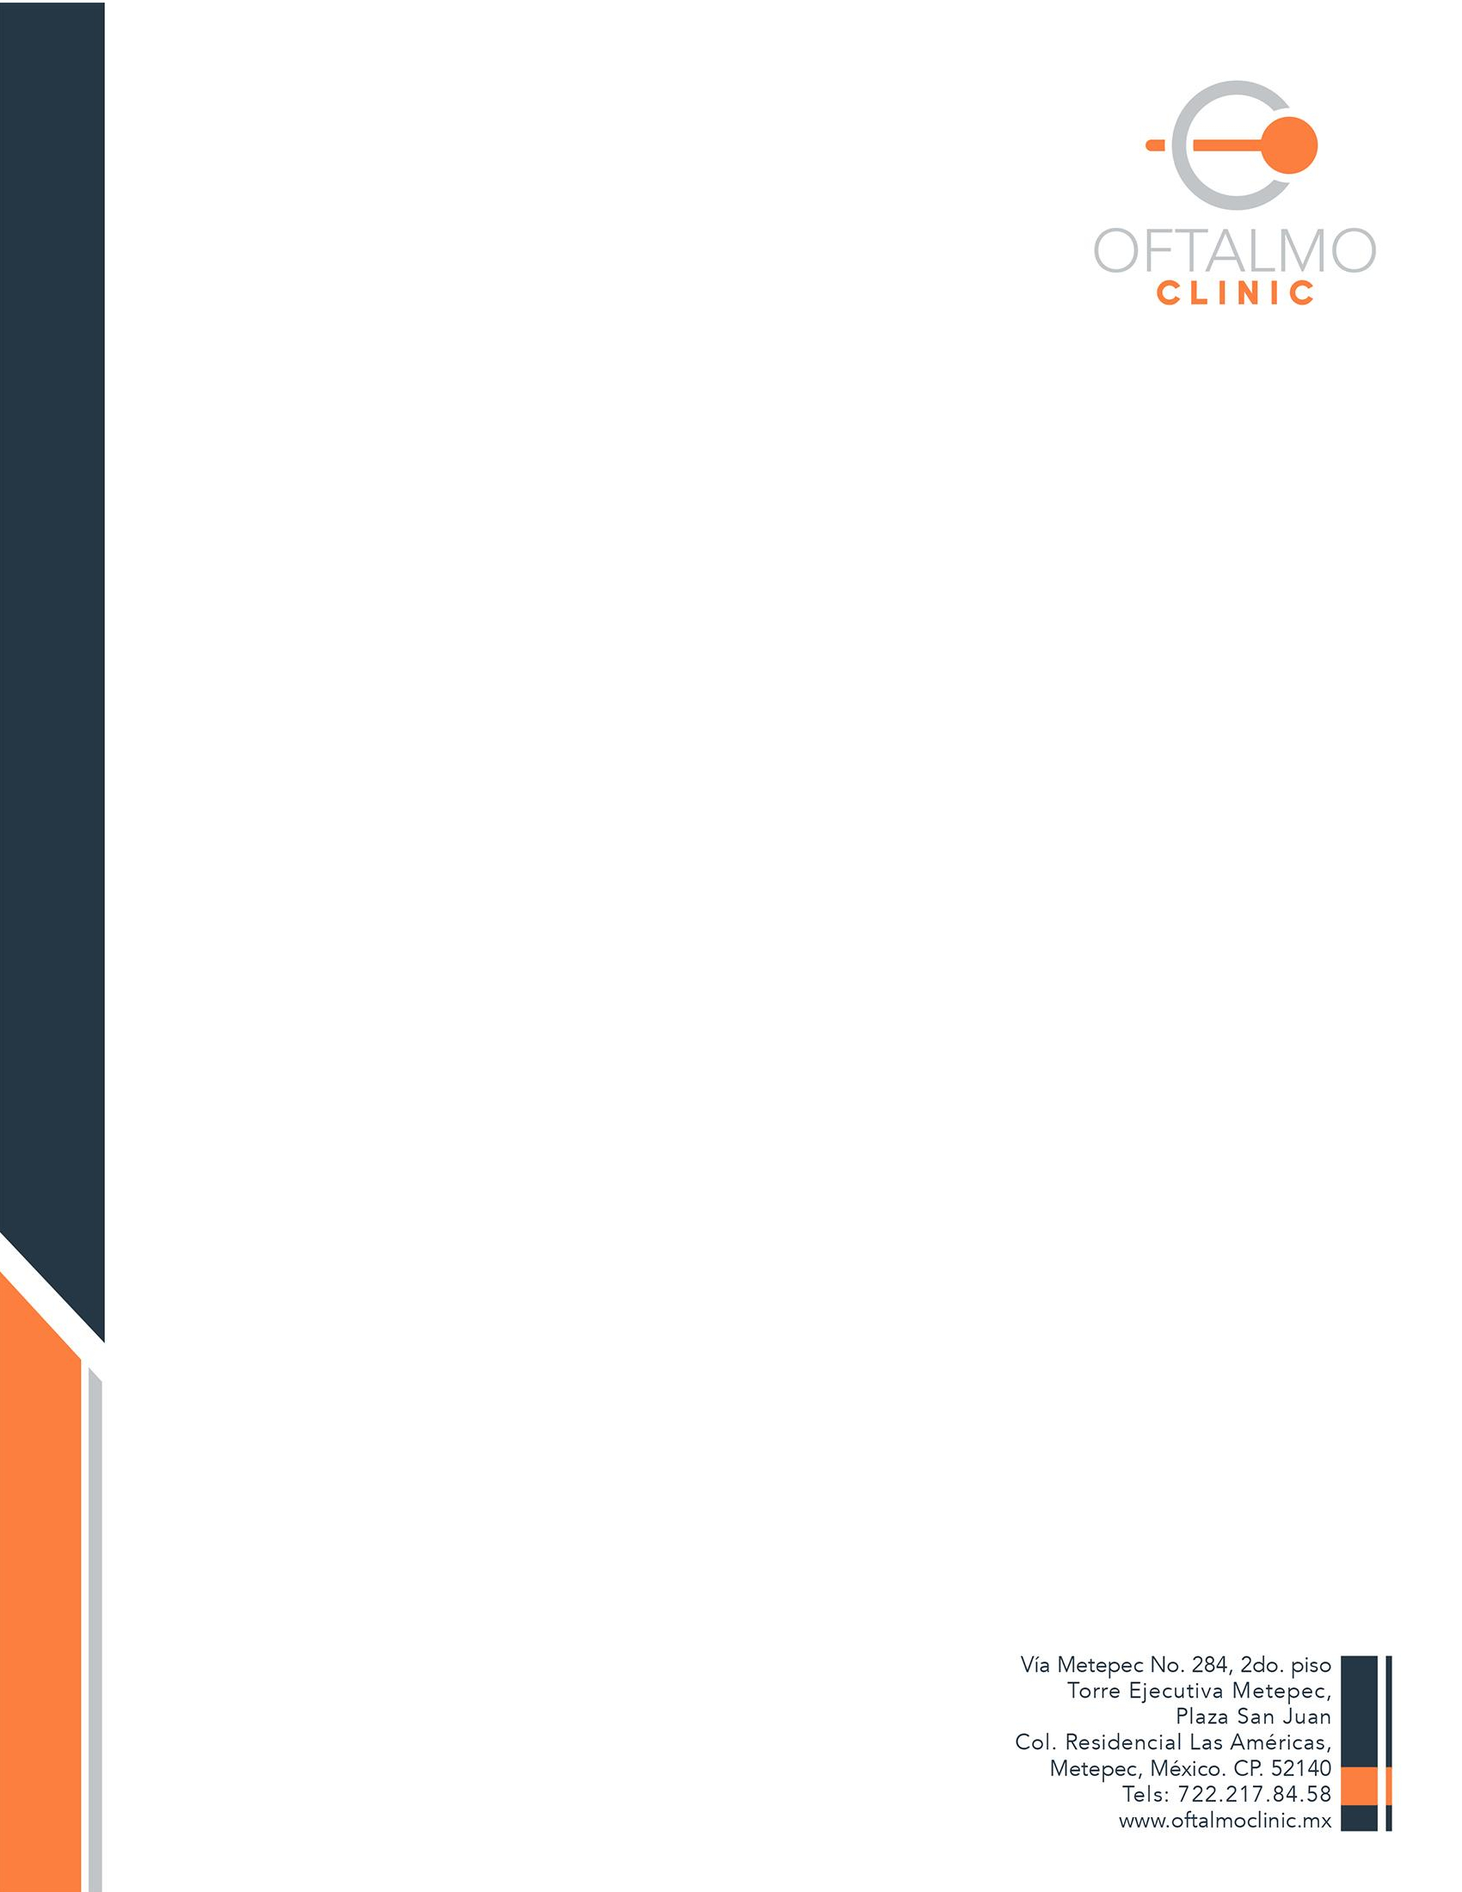
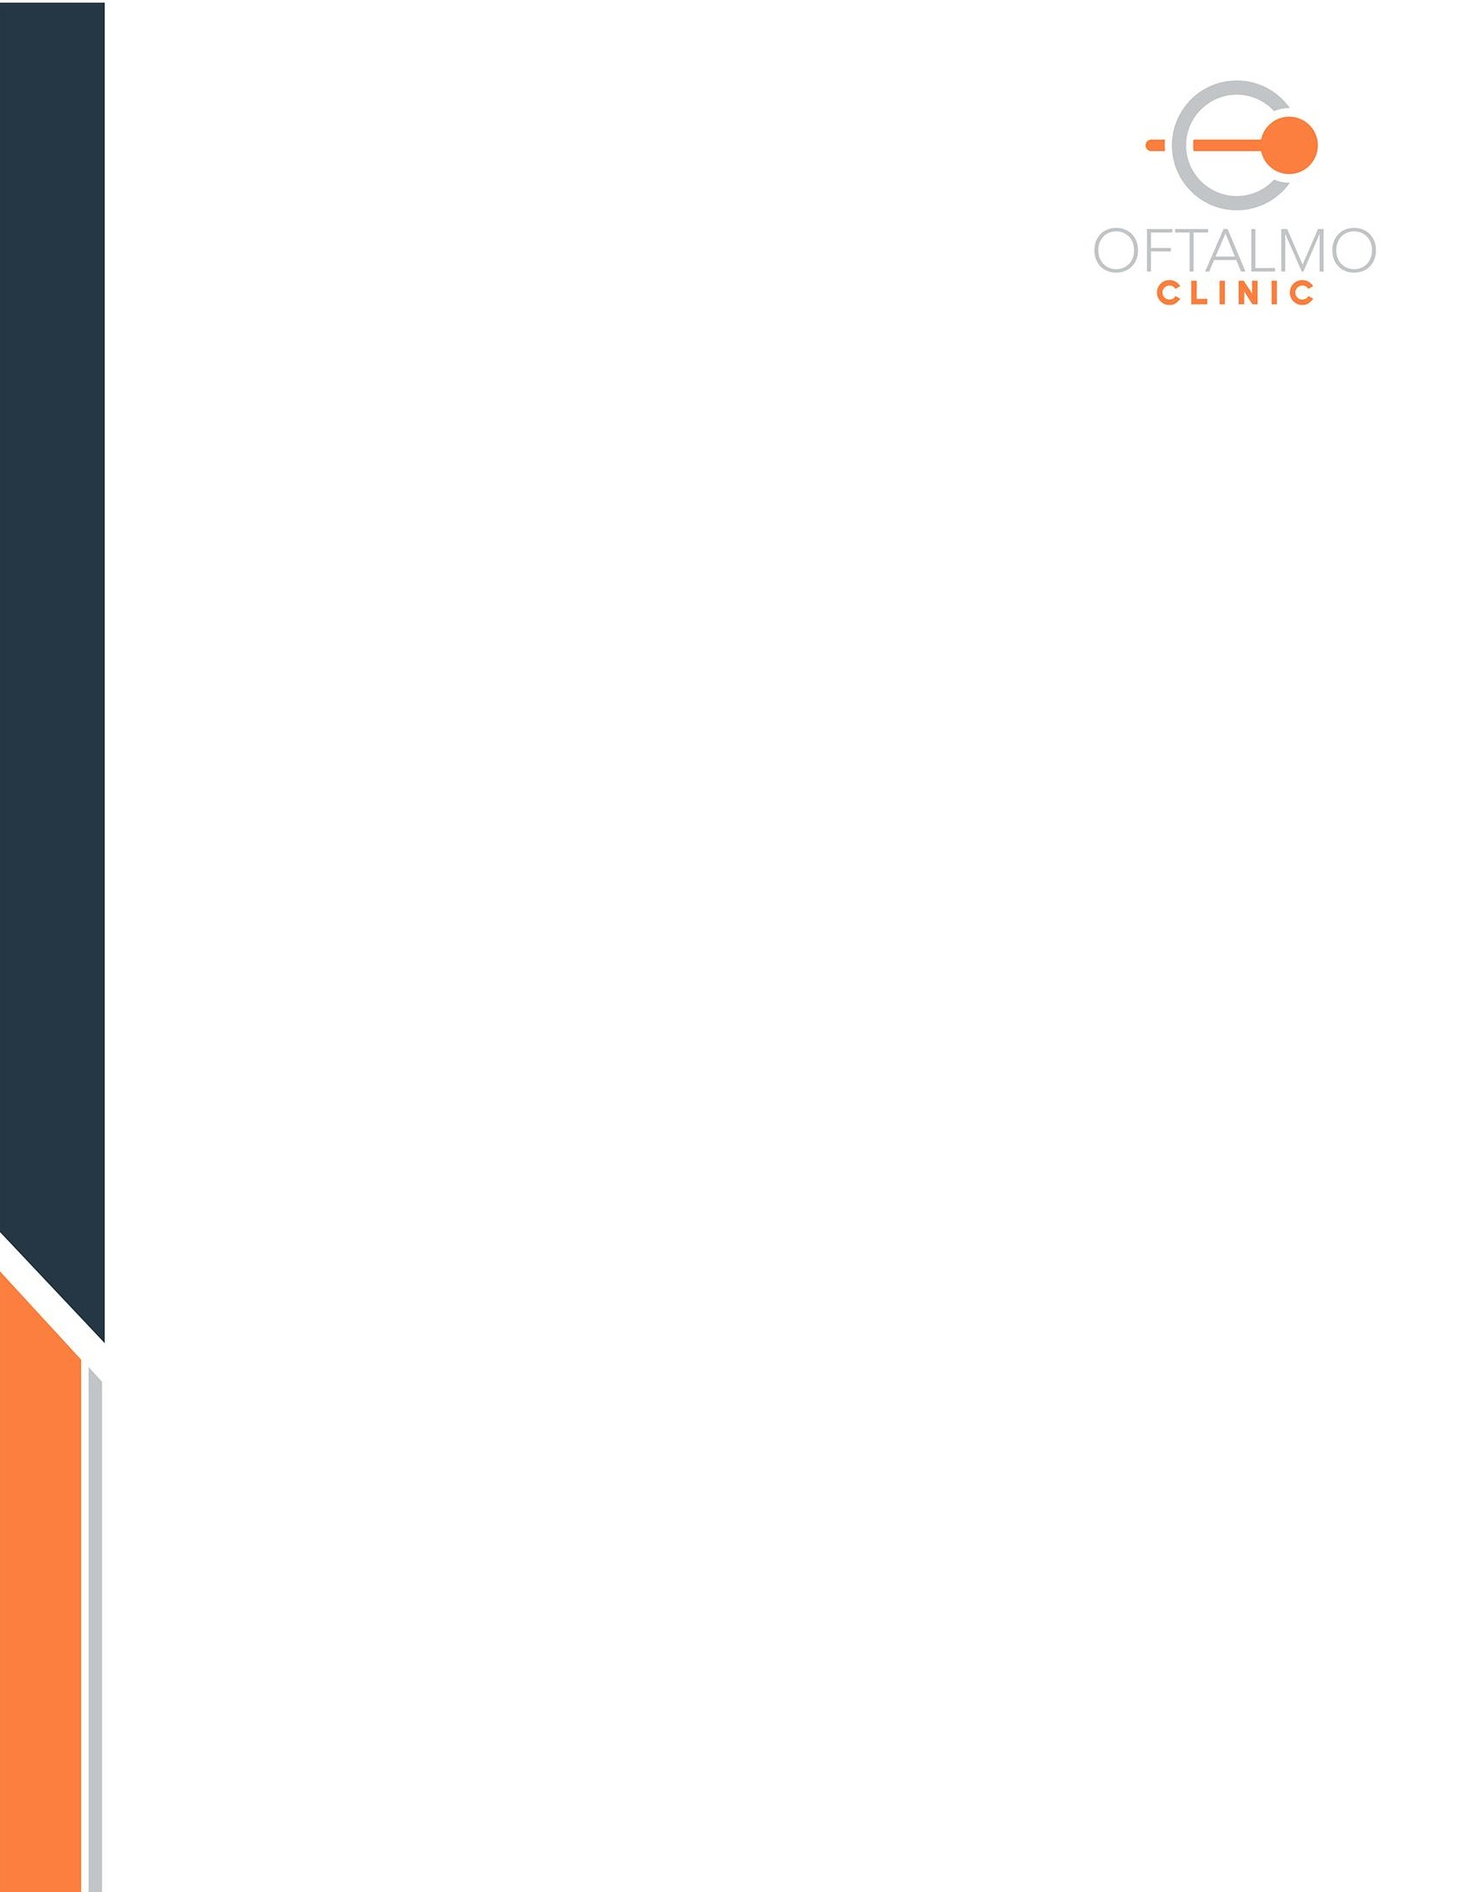
Cambios Detalle de Consumo (Generar Historico)í

Changed region(s): [[0.7171, 0.8655, 0.9665, 0.9891]]

diff --git a/app/Http/Controllers/DetalleCController.php b/app/Http/Controllers/DetalleCController.php
@@ -218,40 +218,86 @@ class DetalleCController extends Controller{
     }
 
     public function viewHojas(Request $request){
+        DB::table('historico_detalle_consumo')->truncate();
         $doctores = Doctor::where('id','!=',1)->get();
         $tipoPaciente = TipoPaciente::all();
         $hojasConsumo = DB::table('detalle_consumos')
                         ->join('doctors','doctors.id','=','id_doctor_fk')
                         ->join('tipo_pacientes','tipo_pacientes.id','=','tipoPaciente')
                         ->select(DB::raw("CONCAT(doctors.doctor_titulo,' ',doctors.doctor_nombre,' ',doctors.doctor_apellidop) AS Doctor")
+                                    ,'detalle_consumos.id as id_detalle'
+                                    ,'detalle_consumos.id_doctor_fk'
                                     ,'detalle_consumos.folio'
                                     ,'detalle_consumos.fechaElaboracion'
                                     ,'detalle_consumos.paciente'
-                                    ,'tipo_pacientes.nombretipo_paciente'
+                                    ,'detalle_consumos.cirugia'
+                                    ,'detalle_consumos.tipoCirugia'
+                                    ,'detalle_consumos.tipoPaciente'
                                     ,'detalle_consumos.cantidadEfe'
-                                    ,'detalle_consumos.id as id_detalle'
-                                    ,'detalle_consumos.cirugia')->get();
+                                    ,'detalle_consumos.cantidadTrans'
+                                    ,'detalle_consumos.TPV'
+                                    ,'detalle_consumos.statusHoja'
+                                    ,'tipo_pacientes.nombretipo_paciente')->get();
+
+        foreach($hojasConsumo as $hojas){
+            DB::table('historico_detalle_consumo')->insert([
+                'id_doctor_fk' => $hojas->id_doctor_fk,
+                'folio' => $hojas->folio,
+                'fechaElaboracion' => $hojas->fechaElaboracion,
+                'paciente' => $hojas->paciente,
+                'cirugia' => $hojas->cirugia,
+                'tipoCirugia' => $hojas->tipoCirugia,
+                'tipoPaciente' => $hojas->tipoPaciente,
+                'cantidadEfe' => $hojas->cantidadEfe,
+                'cantidadTrans' => $hojas->cantidadTrans,
+                'TPV' => $hojas->TPV,
+                'statusHoja' => $hojas->statusHoja
+            ]);
+        }
                         
         return view('detalleC.mostrarHojasConsumo', compact('doctores','tipoPaciente','hojasConsumo'));
     }
 
     public function mostrarHojas(Request $request){
+        DB::table('historico_detalle_consumo')->truncate();
         $doctores = Doctor::where('id','!=',1)->get();
         $tipoPaciente = TipoPaciente::all();
         $hojasConsumo = DB::table('detalle_consumos')
                         ->join('doctors','doctors.id','=','id_doctor_fk')
                         ->join('tipo_pacientes','tipo_pacientes.id','=','tipoPaciente')
                         ->select(DB::raw("CONCAT(doctors.doctor_titulo,' ',doctors.doctor_nombre,' ',doctors.doctor_apellidop) AS Doctor")
+                                    ,'detalle_consumos.id as id_detalle'
+                                    ,'detalle_consumos.id_doctor_fk'
                                     ,'detalle_consumos.folio'
                                     ,'detalle_consumos.fechaElaboracion'
                                     ,'detalle_consumos.paciente'
-                                    ,'tipo_pacientes.nombretipo_paciente'
+                                    ,'detalle_consumos.cirugia'
+                                    ,'detalle_consumos.tipoCirugia'
+                                    ,'detalle_consumos.tipoPaciente'
                                     ,'detalle_consumos.cantidadEfe'
-                                    ,'detalle_consumos.id as id_detalle'
-                                    ,'detalle_consumos.cirugia')
+                                    ,'detalle_consumos.cantidadTrans'
+                                    ,'detalle_consumos.TPV'
+                                    ,'detalle_consumos.statusHoja'
+                                    ,'tipo_pacientes.nombretipo_paciente')
                         ->where('doctors.id','=',$request->slctDoctor)
                         ->whereBetween('fechaElaboracion',[$request->fechaInicio,$request->fechaFin])
                         ->get();
+
+        foreach($hojasConsumo as $hojas){
+            DB::table('historico_detalle_consumo')->insert([
+                'id_doctor_fk' => $hojas->id_doctor_fk,
+                'folio' => $hojas->folio,
+                'fechaElaboracion' => $hojas->fechaElaboracion,
+                'paciente' => $hojas->paciente,
+                'cirugia' => $hojas->cirugia,
+                'tipoCirugia' => $hojas->tipoCirugia,
+                'tipoPaciente' => $hojas->tipoPaciente,
+                'cantidadEfe' => $hojas->cantidadEfe,
+                'cantidadTrans' => $hojas->cantidadTrans,
+                'TPV' => $hojas->TPV,
+                'statusHoja' => $hojas->statusHoja
+            ]);
+        }
         
         return view('detalleC.mostrarHojasConsumo', compact('doctores','hojasConsumo','tipoPaciente'));
     }
@@ -460,8 +506,21 @@ class DetalleCController extends Controller{
         return view('detalleC.mostrarHojasConsumo', compact('doctores','tipoPaciente'));
     }
 
-    /*public function exportPDFGral(Request $request){
-        dd($request);
-        //$pdf = \PDF::loadView('pdf.vista-gral-pdf', compact('data','data2'));
-    }*/
+    public function exportPDFGral(){
+        $hojasConsumo = DB::table('historico_detalle_consumo')
+                        ->join('doctors','doctors.id','=','id_doctor_fk')
+                        ->join('tipo_pacientes','tipo_pacientes.id','=','tipoPaciente')
+                        ->select(DB::raw("CONCAT(doctors.doctor_titulo,' ',doctors.doctor_nombre,' ',doctors.doctor_apellidop) AS Doctor")
+                                    ,'historico_detalle_consumo.folio'
+                                    ,'historico_detalle_consumo.fechaElaboracion'
+                                    ,'historico_detalle_consumo.paciente'
+                                    ,'historico_detalle_consumo.cirugia'
+                                    ,'historico_detalle_consumo.cantidadEfe'
+                                    ,'historico_detalle_consumo.cantidadTrans'
+                                    ,'historico_detalle_consumo.statusHoja'
+                                    ,'tipo_pacientes.nombretipo_paciente')->get();
+
+        $pdf = \PDF::loadView('pdf.vista-gral-pdf', compact('hojasConsumo'));
+        return $pdf->download('Historico Hoja de Consumo.pdf');
+    }
 }

diff --git a/resources/views/pdf/vista-gral-pdf.blade.php b/resources/views/pdf/vista-gral-pdf.blade.php
@@ -1,71 +1,63 @@
 <!DOCTYPE html>
-<html lang="en">
+<html lang="es">
 
 <head>
     <meta charset="UTF-8">
     <meta http-equiv="X-UA-Compatible" content="IE=edge">
     <meta name="viewport" content="width=device-width, initial-scale=1.0">
-    <title>Detalle de Consumo - {{ $data->folio }}</title>
+    <title>Histórico Detalle de Consumo</title>
+    
     <style>
-    body {
-        background-image: url("../resources/views/pdf/images/HOJA-OFTALMOCLINIC.jpg");
-        background-size: cover;
-        margin: 0px;
-        padding: 0px;
-        background-position: center center;
-    }
+        body {
+            background-image: url("../resources/views/pdf/images/HOJA-OFTALMOCLINIC.jpg");
+            background-size: cover;
+            font-family: Verdana, Arial, Helvetica, sans-serif;
+            margin: -15px;
+            padding: -15px;
+            background-position: center center;
+        }
+
+        table {
+            border-collapse: collapse;
+            border: #b2b2b2 1px solid;
+        }
+
+        td, th {
+            border: black 1px solid;
+        }
     </style>
 </head>
 <header>
-    <h1 style="text-align: center;">Detalle de Consumo - {{ $data->folio }}</h1>
+    <h1 style="text-align: center;">Histórico Detalle de Consumo</h1>
 </header>
 
 <body>
-    <dd>
-        <p>
-            <b>Fecha de Elaboración: </b>{{ $data->fechaElaboracion }}
-            <br><b>Doctor: </b>{{ $data->Doctor }}
-            <br><b>Paciente: </b>{{ $data->paciente }} ({{ $data->nombretipo_paciente }})
-            <br><b>Tipo de Cirugía: </b>{{ $data->cirugia }}
-        </p>
-    </dd>
-    <br>
-    <table>
+    <table width="100%">
         <thead>
             <tr>
-                <th style="text-align: center;">Código</th>
-                <th>Descripción</th>
-                <th>UM</th>
-                <th style="text-align: center;">Cantidad</th>
-                <th style="text-align: center;">Precio Unitario</th>
+                <th style="text-align: center;">Folio</th>
+                <th>Fecha Cirugía</th>
+                <th>Doctor</th>
+                <th style="text-align: center;">Paciente</th>
+                <th style="text-align: center;">Tipo Cirugía</th>
                 <th style="text-align: center;">Importe</th>
+                <th style="text-align: center;">Status</th>
             </tr>
         </thead>
         <tbody>
-            @if(!empty($data2))
-            @foreach($data2 as $productos)
+            @if(!empty($hojasConsumo))
+            @foreach($hojasConsumo as $hojas)
             <tr>
-                <td style="text-align: center;">{{ $productos->codigo }}</td>
-                <td>{{ $productos->descripcion }}</td>
-                <td style="text-align: center;">{{ $productos->um }}</td>
-                <td style="text-align: center;">{{ number_format($productos->cantidad,2) }}</td>
-                <td style="text-align: center;">$ {{ number_format($productos->precio_unitario,2) }}</td>
-                <td style="text-align: center;">$ {{ number_format($productos->importe,2) }}</td>
+                <td style="text-align: center;">{{ $hojas->folio }}</td>
+                <td style="text-align: center;">{{ date('d-M-Y',strtotime($hojas->fechaElaboracion)) }}</td>
+                <td style="text-align: center;">{{ $hojas->Doctor }}</td>
+                <td style="text-align: center;">{{ $hojas->paciente }} ({{ $hojas->nombretipo_paciente }}) </td>
+                <td style="text-align: center;">{{ $hojas->cirugia }}</td>
+                <td style="text-align: center;">$ {{ number_format($hojas->cantidadEfe,2) }}</td>
+                <td style="text-align: center;">{{ $hojas->statusHoja }}</td>
             </tr>
             @endforeach
             @endif
-            <tr>
-                <td style="text-align: right;" colspan="5"><b>Total (Efectivo): </b></td>
-                <td>$ {{ number_format($data->cantidadEfe,2) }}</td>
-            </tr>
-            <tr>
-                <td style="text-align: right;" colspan="5"><b>Total (Transferencia): </b></td>
-                <td>$ {{ number_format($data->cantidadTrans,2) }}</td>
-            </tr>
-            <tr>
-                <td style="text-align: right;" colspan="5"><b>Total (TPV): </b></td>
-                <td>$ {{ number_format($data->TPV,2) }}</td>
-            </tr>
         </tbody>
     </table>
 </body>

diff --git a/resources/views/detalleC/mostrarHojasConsumo.blade.php b/resources/views/detalleC/mostrarHojasConsumo.blade.php
@@ -3,7 +3,7 @@
 <div class="col">
     <div class="card">
         <div class="card-header modalPersonalizado">
-            <h4>Historial Hojas de Consumo</h4>
+            <h4>Histórico Hojas de Consumo</h4>
         </div>
         <div class="card-header col-12">
             <form action="{{ route('mostrarHojas.show') }}" method="GET">
@@ -49,7 +49,7 @@
                             </div>
                         </div>
                     </div>
-                    <!--<div class="col-md-2 col-sm-4 col-6">
+                    <div class="col-md-2 col-sm-4 col-6">
                         <div class="info-box shadow">
                             <div class="info-box-content">
                                 <a id="cargarCobranza" type="button" href="{{ route('exportPDFGral.create') }}"
@@ -58,7 +58,7 @@
                                 </a>
                             </div>
                         </div>
-                    </div>-->
+                    </div>
                 </div>
             </form>
         </div>
@@ -66,12 +66,12 @@
             <table id="catEstudios" name="catEstudios" class="table table-bordered table-hover">
                 <thead>
                     <tr>
-                        <th>Folio</th>
-                        <th>Fecha de Cirugía</th>
+                        <th style="text-align: center;">Folio</th>
+                        <th style="text-align: center;">Fecha de Cirugía</th>
                         <th>Doctor</th>
                         <th>Paciente</th>
                         <th>Tipo de Cirugía</th>
-                        <th>Importe</th>
+                        <th style="text-align: center;">Importe</th>
                         <th></th>
                     </tr>
                 </thead>
@@ -79,12 +79,12 @@
                     @if(!empty($hojasConsumo))
                     @foreach($hojasConsumo as $hojas)
                     <tr vertical-align="middle">
-                        <td>{{ $hojas->folio }}</td>
-                        <td>{{ date('d-M-Y',strtotime($hojas->fechaElaboracion)) }}</td>
+                        <td style="text-align: center;">{{ $hojas->folio }}</td>
+                        <td style="text-align: center;">{{ date('d-M-Y',strtotime($hojas->fechaElaboracion)) }}</td>
                         <td>{{ $hojas->Doctor }}</td>
                         <td>{{ $hojas->paciente }} ({{ $hojas->nombretipo_paciente }})</td>
                         <td>{{ $hojas->cirugia }}</td>
-                        <td>$ {{ number_format($hojas->cantidadEfe,2) }}</td>
+                        <td style="text-align: center;">$ {{ number_format($hojas->cantidadEfe,2) }}</td>
                         <td>
                             <center>
                                 <div class="btn-group">

diff --git a/resources/views/pdf/vista-pdf.blade.php b/resources/views/pdf/vista-pdf.blade.php
@@ -6,14 +6,25 @@
     <meta http-equiv="X-UA-Compatible" content="IE=edge">
     <meta name="viewport" content="width=device-width, initial-scale=1.0">
     <title>Detalle de Consumo - {{ $data->folio }}</title>
+
     <style>
-    body {
-        background-image: url("../resources/views/pdf/images/HOJA-OFTALMOCLINIC.jpg");
-        background-size: cover;
-        margin: 0px;
-        padding: 0px;
-        background-position: center center;
-    }
+        body {
+            background-image: url("../resources/views/pdf/images/HOJA-OFTALMOCLINIC.jpg");
+            background-size: cover;
+            font-family: Verdana, Arial, Helvetica, sans-serif;
+            margin: -15px;
+            padding: -15px;
+            background-position: center center;
+        }
+
+        table {
+            border-collapse: collapse;
+            border: #b2b2b2 1px solid;
+        }
+
+        td, th {
+            border: black 1px solid;
+        }
     </style>
 </head>
 <header>
@@ -30,7 +41,7 @@
         </p>
     </dd>
     <br>
-    <table>
+    <table width="100%">
         <thead>
             <tr>
                 <th style="text-align: center;">Código</th>

diff --git a/database/migrations/2022_07_29_193454_historico_detalle_consumo.php b/database/migrations/2022_07_29_193454_historico_detalle_consumo.php
@@ -1,0 +1,40 @@
+<?php
+
+use Illuminate\Database\Migrations\Migration;
+use Illuminate\Database\Schema\Blueprint;
+use Illuminate\Support\Facades\Schema;
+
+class HistoricoDetalleConsumo extends Migration
+{
+    /**
+     * Run the migrations.
+     *
+     * @return void
+     */
+    public function up(){
+        Schema::create('historico_detalle_consumo', function (Blueprint $table) {
+            $table->text('id_doctor_fk');
+            $table->char('folio',10);
+            $table->date('fechaElaboracion');
+            $table->text('paciente');
+            $table->text('tipoPaciente');
+            $table->text('cirugia');
+            $table->char('tipoCirugia',2);
+            $table->double('cantidadEfe',10,2);
+            $table->double('cantidadTrans',10,2);
+            $table->double('TPV',10,2);
+            $table->text('statusHoja');
+            $table->timestamps();
+        });
+    }
+
+    /**
+     * Reverse the migrations.
+     *
+     * @return void
+     */
+    public function down()
+    {
+        Schema::dropIfExists('historico_detalle_consumo');
+    }
+}

diff --git a/resources/views/layouts/principal.blade.php b/resources/views/layouts/principal.blade.php
@@ -1,5 +1,5 @@
 <!DOCTYPE html>
-<html lang="en">
+<html lang="es">
 
 <head>
     <meta charset="utf-8" />
@@ -113,7 +113,7 @@
                                 <li class="nav-item">
                                     <a href="{{ route('viewHojas.show') }}" class="nav-link">
                                         <i class="far fa-circle nav-icon"></i>
-                                        <p>Historial Hojas de Consumo</p>
+                                        <p>Histórico Hojas de Consumo</p>
                                     </a>
                                 </li>
                             </ul>
